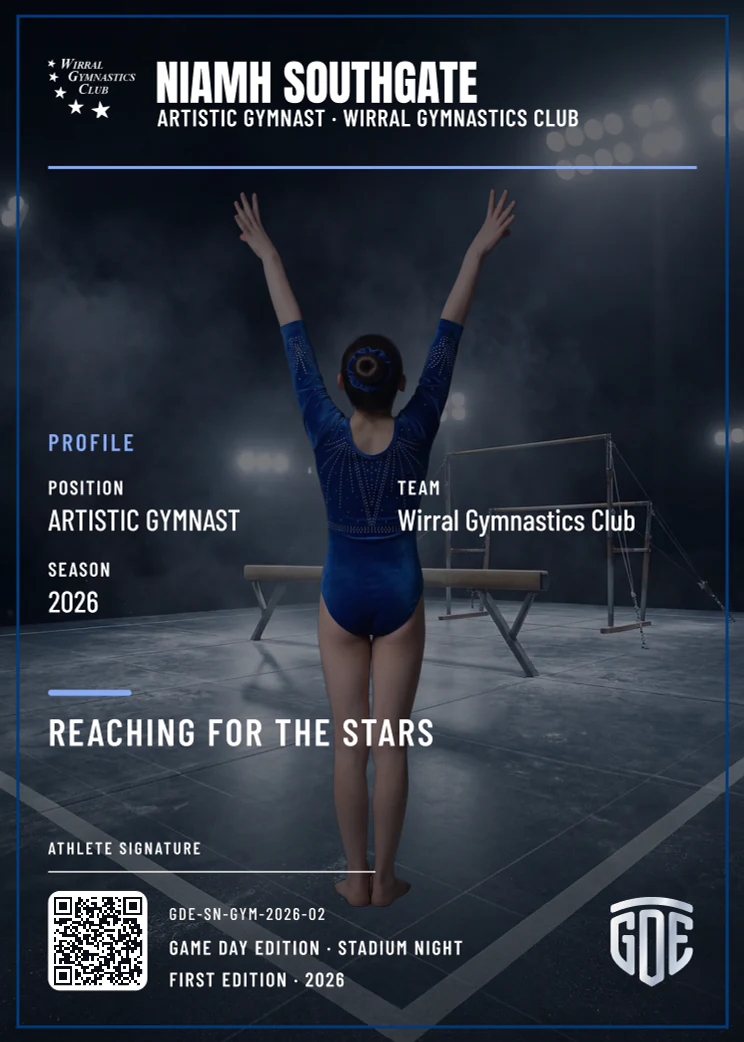
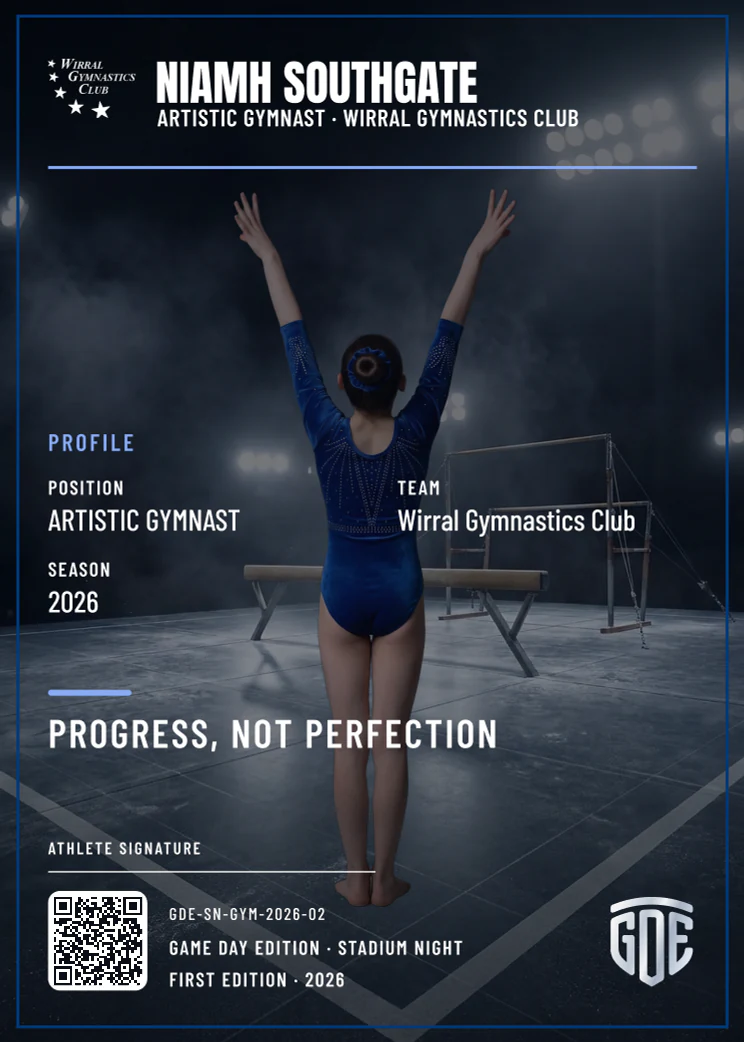
Registry: Niamh's headline is now Progress, Not Perfection (record + card back)

Changed region(s): [[0.0618, 0.6756, 0.6801, 0.737]]

diff --git a/lib/registry/cards.ts b/lib/registry/cards.ts
@@ -225,7 +225,7 @@ export const cards: CardRecord[] = [
     stats: [],
     sportCode: "GYM",
     styleName: "Stadium Night",
-    playerHighlight: "Reaching for the Stars",
+    playerHighlight: "Progress, Not Perfection",
     createdAt: "2026-09-26",
     visibility: "unlisted",
     channel: "etsy",
